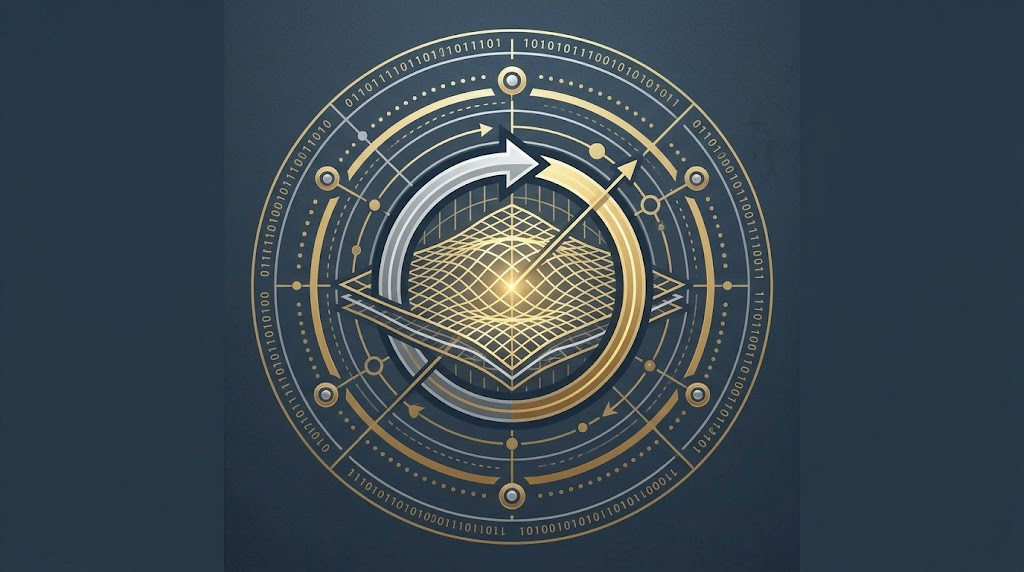
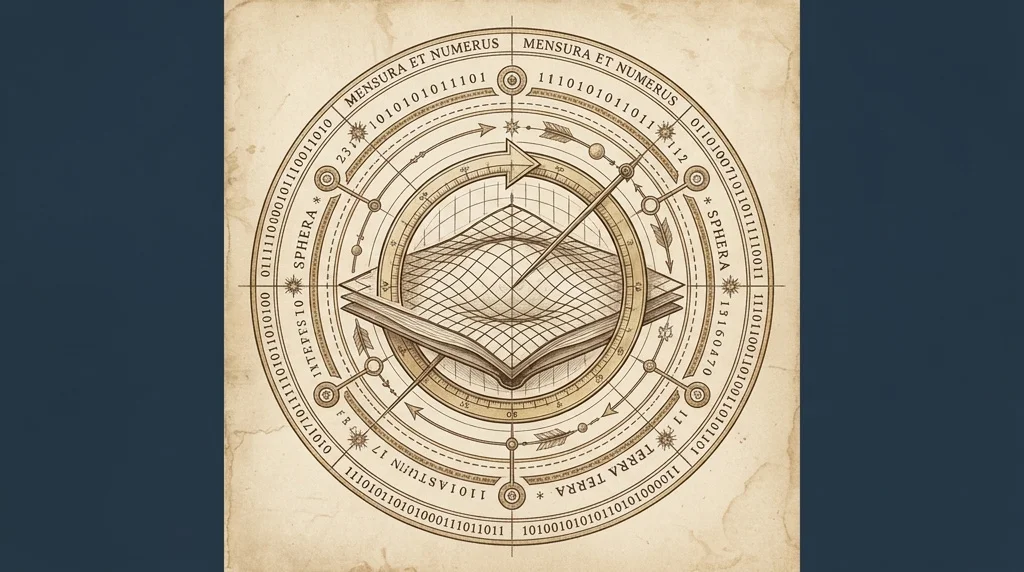
Renaissance theme inspired by The Creation of Adam
Restyle the site with fresco colors, gilded borders, Cinzel and EB Garamond.
Add a Creation of Adam banner to the home page and a faded Sistine Chapel
backdrop. Include updated team and part images.

diff --git a/css/style.css b/css/style.css
@@ -1,156 +1,198 @@
-/* ADAM site styles: dark slate theme.
-   A deep blue-grey (not black) with warm off-white text and a gold accent.
+/* ADAM site styles: Italian Renaissance theme.
+   The machine is named after Michelangelo's "Creation of Adam" on the Sistine Chapel ceiling,
+   so the site borrows from it: fresco plaster, gilded frame mouldings, printer's fleurons,
+   and the painting's own pigments (sky blue, God's red mantle, the green sash, ochre, gold).
    The accent colors keep their variable names, so data.js still works.
-   Fraunces gives headings a soft, classical touch; Source Sans 3 keeps body text clean. */
+   Fonts load here so every page gets them, whatever its <link> tags say.
+   Cinzel is modelled on Roman capitals, which Renaissance letterers revived;
+   EB Garamond is a Renaissance book face. */
+@import url('https://fonts.googleapis.com/css2?family=Cinzel:wght@500;600;700;800&family=EB+Garamond:ital,wght@0,400;0,500;0,600;1,400&display=swap');
+
 :root{
-  --bg:#1b1f27; --bg-rgb:27,31,39; --surface:#232833; --surface-rgb:35,40,51;
-  --ink:#ece8df; --mute:#a0a4ae; --line:#343a48;
-  --gold-rgb:224,182,79;
-  --z:#c08ad0; --y:#8fc276; --tool:#e0b64f; --fix:#6fa3e0; --x:#e08a5a; --base:#d9626b; --work:#ece8df;
-  --font-head:'Fraunces',Georgia,serif;
-  --font-body:'Source Sans 3',system-ui,sans-serif;
-  color-scheme:dark;
+  --bg:#f2ecdf; --bg-rgb:242,236,223; --surface:#fbf8f1; --surface-rgb:251,248,241;
+  --ink:#2b2118; --mute:#6b5e4e; --line:#d8cab0;
+  --gold:#a8822f; --gold-deep:#7d5e1c; --gold-rgb:168,130,47;
+  /* Fresco pigments: mantle purple, sash green, ochre, sky, flesh/terracotta, mantle red */
+  --z:#6a4570; --y:#3f7563; --tool:#94701f; --fix:#3a5f8c; --x:#b0532c; --base:#8a3236; --work:#2b2118;
+  --font-head:'Cinzel','Trajan Pro',Georgia,serif;
+  --font-body:'EB Garamond',Garamond,Georgia,serif;
+  /* Gilded frame moulding: thin dark line, broad gold, thin dark line */
+  --moulding:linear-gradient(180deg,var(--gold-deep) 0 1px,transparent 1px 3px,#c9a24a 3px 5px,var(--gold) 5px 7px,transparent 7px 9px,var(--gold-deep) 9px 10px);
+  color-scheme:light;
 }
 *{box-sizing:border-box}
 html{scroll-behavior:smooth}
-::selection{background:rgba(var(--gold-rgb),.35)}
+::selection{background:rgba(var(--gold-rgb),.3)}
 
-/* Background: slate with a soft warm glow in the top corner */
-body{margin:0;color:var(--ink);font:400 19px/1.6 var(--font-body);display:flex;flex-direction:column;min-height:100vh;
+/* Background: the Sistine Chapel, washed back to plaster so text stays readable,
+   with a warm "divine light" glow in the top corner */
+body{margin:0;color:var(--ink);font:400 20px/1.6 var(--font-body);display:flex;flex-direction:column;min-height:100vh;
   background-color:var(--bg);
   background-image:
-    radial-gradient(ellipse 70% 50% at 100% 0,rgba(var(--gold-rgb),.07),transparent 70%),
-    linear-gradient(180deg,#20252e 0,var(--bg) 60%);
+    radial-gradient(ellipse 60% 45% at 100% 0,rgba(var(--gold-rgb),.16),transparent 70%),
+    linear-gradient(rgba(var(--bg-rgb),.9),rgba(var(--bg-rgb),.9)),
+    url("../images/sistine_chapel.jpg");
+  background-repeat:no-repeat;background-size:100% 100%,100% 100%,cover;background-position:center,center,center 30%;
   background-attachment:fixed}
 main{flex:1}
-h1,h2,h3{font-family:var(--font-head);font-weight:600;line-height:1.1;margin:0}
+h1,h2,h3{font-family:var(--font-head);font-weight:600;line-height:1.15;margin:0;letter-spacing:.04em}
 a{color:inherit}
-:focus-visible{outline:2px solid var(--tool);outline-offset:3px}
+:focus-visible{outline:2px solid var(--gold);outline-offset:3px}
+
+/* Gilded moulding used on header, footer, sponsors and the home card */
+header::after,.sponsors::before,footer::before,.hello::before{content:"";display:block;height:10px;background:var(--moulding)}
 
 /* Header */
-header{position:sticky;top:0;z-index:10;padding-top:env(safe-area-inset-top,0px);background:rgba(var(--bg-rgb),.9);backdrop-filter:blur(8px);border-bottom:1px solid var(--line)}
+header{position:sticky;top:0;z-index:10;padding-top:env(safe-area-inset-top,0px);background:rgba(var(--bg-rgb),.94);backdrop-filter:blur(8px)}
 nav{max-width:1200px;margin:auto;padding:14px 28px;display:flex;align-items:center;justify-content:space-between;gap:16px}
-.logo{font:700 34px var(--font-head);letter-spacing:.14em;text-decoration:none;color:var(--tool)}
+.logo{font:700 32px var(--font-head);letter-spacing:.32em;text-decoration:none;color:var(--gold-deep);
+  text-shadow:0 1px 0 #fff8e4}
+.logo::before,.logo::after{content:"\2726";font-size:.45em;vertical-align:middle;color:var(--gold);letter-spacing:0;margin:0 .7em}
+.logo::before{margin-left:0}
+.logo::after{margin-left:.38em}
 nav ul{display:flex;gap:4px;list-style:none;margin:0;padding:0;flex-wrap:wrap}
-nav a.l{display:block;padding:6px 14px;text-decoration:none;font:500 17px var(--font-body);letter-spacing:.03em;border-bottom:2px solid transparent;transition:color .2s,border-color .2s}
+nav a.l{display:block;padding:6px 14px;text-decoration:none;font:600 15px var(--font-head);letter-spacing:.12em;text-transform:uppercase;border-bottom:2px solid transparent;transition:color .2s,border-color .2s}
 nav a.l:hover,nav a.l.on{color:var(--c);border-color:var(--c)}
 
 /* Layout */
 .wrap{position:relative;max-width:1200px;margin:auto;padding:80px 28px}
-h1.page{font-size:clamp(40px,6vw,72px);margin-bottom:20px}
-h1.page::after{content:"";display:block;width:64px;height:3px;margin-top:18px;background:var(--tool);border-radius:2px}
-.lede{color:var(--mute);font-size:21px;max-width:56ch;margin:0 0 48px}
+h1.page{font-size:clamp(40px,6vw,72px);margin-bottom:20px;color:var(--ink)}
+/* Printer's fleuron followed by a gold rule */
+h1.page::after{content:"\2766";display:block;margin-top:14px;padding-right:180px;width:max-content;font:400 30px/1 var(--font-body);color:var(--gold);
+  background:linear-gradient(var(--gold),var(--gold)) no-repeat right 4px center/164px 1px}
+.lede{color:var(--mute);font-size:23px;font-style:italic;max-width:56ch;margin:0 0 48px}
 
+/* Home banner: The Creation of Adam, framed on the two hands */
+.fresco{position:relative;padding:0 20px;height:min(64vh,620px);min-height:340px;display:flex;flex-direction:column;justify-content:flex-end;align-items:center;text-align:center;
+  background:url("../images/Creation_of_adam.jpg") 39% 45%/cover no-repeat;box-shadow:inset 0 -1px 0 var(--line)}
+.fresco::before{content:"";position:absolute;inset:0;background:linear-gradient(180deg,transparent 45%,rgba(var(--bg-rgb),.75) 78%,var(--bg) 100%)}
+.fresco>*{position:relative;max-width:100%}
+.fresco-name{margin:0;font:800 clamp(56px,9vw,120px)/1 var(--font-head);letter-spacing:.3em;margin-right:-.3em;
+  background:linear-gradient(180deg,#c9a24a 0,#94701f 55%,#6f5216 100%);-webkit-background-clip:text;background-clip:text;-webkit-text-fill-color:transparent;
+  filter:drop-shadow(0 1px 0 #fff8e4)}
+.fresco-sub{margin:10px 0 0;font:italic 500 clamp(20px,2.4vw,28px) var(--font-body);color:var(--ink)}
+.fresco-credit{margin:14px 0 18px;font:400 13px var(--font-head);letter-spacing:.14em;text-transform:uppercase;color:var(--mute)}
+.fresco-credit i{text-transform:none;font:italic 400 16px var(--font-body);letter-spacing:0}
+.fresco+.home{min-height:0;padding-top:56px}
 /* Home */
 .home{min-height:calc(100vh - 140px);display:grid;grid-template-columns:1fr 1fr;gap:48px;align-items:center;padding-top:48px}
 #topo{position:absolute;inset:0;width:100%;height:100%;z-index:-1;pointer-events:none}
-#topo path{fill:none;stroke:var(--tool);stroke-width:1.2;stroke-opacity:.2;stroke-dasharray:1;stroke-dashoffset:1;animation:draw 3.2s ease-out forwards}
+#topo path{fill:none;stroke:var(--gold);stroke-width:1.1;stroke-opacity:.28;stroke-dasharray:1;stroke-dashoffset:1;animation:draw 3.2s ease-out forwards}
 @keyframes draw{to{stroke-dashoffset:0}}
-.hello,.shot{border-radius:14px;box-shadow:0 20px 50px rgba(0,0,0,.35)}
-.hello{background:rgba(var(--surface-rgb),.92);border:1px solid var(--line);padding:44px}
-.hello h1{font-size:clamp(80px,10vw,136px);color:var(--tool);font-weight:700}
-.hello p{max-width:34ch;color:#d8d4ca;margin:20px 0 28px;font-size:22px}
-.btn{display:inline-block;background:var(--tool);color:#1b1f27;font:600 17px var(--font-body);letter-spacing:.02em;padding:12px 28px;text-decoration:none;border-radius:8px;transition:background .2s,transform .2s}
-.btn:hover{background:#f2cd70;transform:translateY(-1px)}
-.shot{background:#fff;overflow:hidden}
+.hello,.shot{box-shadow:0 2px 0 rgba(var(--gold-rgb),.25),0 24px 50px rgba(60,40,10,.18)}
+/* Hero card styled like a carved stone tablet */
+.hello{position:relative;background:rgba(var(--surface-rgb),.94);border:1px solid var(--line);outline:1px solid rgba(var(--gold-rgb),.45);outline-offset:-10px;padding:0 44px 44px}
+.hello::before{margin:0 -44px 36px}
+.hello h1{font-size:clamp(80px,10vw,136px);color:var(--gold-deep);font-weight:700;
+  background:linear-gradient(180deg,#c9a24a 0,#94701f 55%,#6f5216 100%);-webkit-background-clip:text;background-clip:text;-webkit-text-fill-color:transparent}
+.hello p{max-width:34ch;color:var(--ink);margin:20px 0 28px;font-size:24px}
+.btn{display:inline-block;background:linear-gradient(180deg,#c9a24a,#9b7624);color:#fffaf0;font:700 15px var(--font-head);letter-spacing:.14em;text-transform:uppercase;padding:13px 28px;text-decoration:none;border:1px solid var(--gold-deep);border-radius:2px;box-shadow:inset 0 1px 0 rgba(255,255,255,.35),0 2px 6px rgba(60,40,10,.2);text-shadow:0 1px 0 rgba(0,0,0,.25);transition:filter .2s,transform .2s}
+.btn:hover{filter:brightness(1.08);transform:translateY(-1px)}
+.shot{background:#fff;overflow:hidden;border:1px solid var(--line);outline:6px solid var(--surface);outline-offset:0}
 .shot img{display:block;width:100%;height:auto}
 
 /* Project */
-.parts{display:grid;grid-template-columns:minmax(0,1fr) minmax(0,1.2fr);gap:40px;align-items:start}
-.plist{display:flex;flex-direction:column;border-top:1px solid var(--line)}
-.plist button{all:unset;cursor:pointer;display:flex;align-items:center;gap:14px;padding:14px 4px;border-bottom:1px solid var(--line);font:600 24px var(--font-head);color:var(--c);transition:padding .2s}
-.plist button:hover,.plist button[aria-selected=true]{padding-left:16px}
-.plist button:focus-visible{outline:2px solid var(--tool)}
-.plist button::before{content:"";width:12px;height:12px;border-radius:50%;background:var(--c);flex:none}
+.parts{display:grid;grid-template-columns:minmax(0,1fr) minmax(0,1.2fr);gap:40px;align-items:start;margin-top:40px}
+.plist{display:flex;flex-direction:column;border-top:3px double var(--line)}
+.plist button{all:unset;cursor:pointer;display:flex;align-items:center;gap:14px;padding:14px 4px;border-bottom:1px solid var(--line);font:600 22px var(--font-head);letter-spacing:.06em;color:var(--c);transition:padding .2s,background .2s}
+.plist button:hover,.plist button[aria-selected=true]{padding-left:16px;background:rgba(var(--gold-rgb),.07)}
+.plist button:focus-visible{outline:2px solid var(--gold)}
+.plist button::before{content:"";width:12px;height:12px;transform:rotate(45deg);background:var(--c);flex:none}
 .plist button.has-img::before{display:none}
-.plist img{width:64px;height:64px;object-fit:cover;border-radius:8px;flex:none;border:2px solid var(--c)}
-.pdetail{border-left:3px solid var(--c);padding:12px 24px 12px 28px;min-height:260px;background:rgba(var(--surface-rgb),.7);border-radius:0 10px 10px 0}
-.pdetail h3{font-size:42px;color:var(--c);margin-bottom:12px}
+.plist img{width:64px;height:64px;object-fit:cover;border-radius:50%;flex:none;border:2px solid var(--c);outline:1px solid rgba(var(--gold-rgb),.6);outline-offset:2px}
+.pdetail{border-left:3px solid var(--c);padding:16px 26px 16px 30px;min-height:260px;background:rgba(var(--surface-rgb),.85);border-radius:0 4px 4px 0;box-shadow:0 10px 30px rgba(60,40,10,.08)}
+.pdetail h3{font-size:40px;color:var(--c);margin-bottom:12px}
 .pdetail p{margin:0 0 16px;max-width:52ch}
-.pdetail small{color:var(--mute);font-size:16px}
-.pdetail img{display:block;width:100%;max-width:520px;height:auto;border-radius:8px;border:1px solid var(--line);margin:0 0 16px}
-.pdetail h4{margin:24px 0 8px;font:600 14px var(--font-body);letter-spacing:.12em;text-transform:uppercase;color:var(--tool)}
+.pdetail small{color:var(--mute);font-size:17px;font-style:italic}
+.pdetail img{display:block;width:100%;max-width:520px;height:auto;border-radius:2px;border:1px solid var(--line);margin:0 0 16px}
+.pdetail h4{margin:24px 0 8px;font:700 14px var(--font-head);letter-spacing:.16em;text-transform:uppercase;color:var(--tool)}
 .pdetail ul{margin:0 0 16px;padding-left:20px;max-width:52ch}
 .pdetail li{margin-bottom:6px}
-.pdetail li::marker{color:var(--tool)}
+.pdetail li::marker{color:var(--gold)}
 .pdetail figure{margin:0 0 20px}
 .pdetail figure img{margin:0 0 8px}
-.pdetail figcaption{color:var(--mute);font-size:15px}
+.pdetail figcaption{color:var(--mute);font-size:16px;font-style:italic}
 .pgallery{display:grid;grid-template-columns:repeat(auto-fit,minmax(220px,1fr));gap:12px;margin:0 0 16px}
 .pgallery img{margin:0;aspect-ratio:4/3;object-fit:cover}
 
 /* Mission (Project page) */
-h2.sub{font-size:clamp(32px,4.5vw,48px);margin:0 0 24px}
+h2.sub{font-size:clamp(30px,4.2vw,46px);margin:0 0 24px}
 .mission{margin-bottom:96px}
-.mission-statement{font:500 clamp(26px,3.4vw,40px)/1.25 var(--font-head);max-width:36ch;margin:0 0 40px}
+.mission-statement{font:italic 500 clamp(28px,3.6vw,42px)/1.3 var(--font-body);max-width:36ch;margin:0 0 40px;padding-left:28px;border-left:3px double var(--gold)}
 .mission-grid{display:grid;grid-template-columns:repeat(auto-fit,minmax(260px,1fr));gap:24px}
-.mcard{background:var(--surface);border:1px solid var(--line);border-top:3px solid var(--fix);padding:24px 24px 28px;border-radius:10px}
+/* Cards as small stone stelae: a coloured capital on top, inset gold rule */
+.mcard{background:var(--surface);border:1px solid var(--line);border-top:4px solid var(--fix);outline:1px solid rgba(var(--gold-rgb),.35);outline-offset:-8px;padding:28px 28px 30px;border-radius:2px;box-shadow:0 10px 26px rgba(60,40,10,.08)}
 .mcard:nth-child(even){border-top-color:var(--x)}
-.mcard h3{font-size:24px;margin-bottom:12px}
-.mcard p{margin:0;color:#d8d4ca}
-.mcard ul{margin:0;padding-left:20px;color:#d8d4ca}
+.mcard h3{font-size:22px;margin-bottom:12px}
+.mcard p{margin:0;color:var(--ink)}
+.mcard ul{margin:0;padding-left:20px;color:var(--ink)}
 .mcard li{margin-bottom:6px}
-.mcard li::marker{color:var(--tool)}
+.mcard li::marker{color:var(--gold)}
 
 /* Presentations */
 .btn-row{margin:0 0 56px}
-.back{display:inline-block;margin-bottom:20px;font:500 16px var(--font-body);text-decoration:none;color:var(--mute)}
-.back:hover{color:var(--tool)}
+.back{display:inline-block;margin-bottom:20px;font:600 14px var(--font-head);letter-spacing:.1em;text-transform:uppercase;text-decoration:none;color:var(--mute)}
+.back:hover{color:var(--gold-deep)}
 .pres{display:grid;grid-template-columns:minmax(0,320px) minmax(0,1fr);gap:32px;align-items:start}
-.pres-list{list-style:none;margin:0;padding:0;border-top:1px solid var(--line)}
+.pres-list{list-style:none;margin:0;padding:0;border-top:3px double var(--line)}
 .pres-list button{all:unset;box-sizing:border-box;display:block;width:100%;cursor:pointer;padding:14px 8px;border-bottom:1px solid var(--line);transition:padding .2s}
 .pres-list button:hover,.pres-list button[aria-pressed=true]{padding-left:18px}
-.pres-list button[aria-pressed=true]{background:var(--surface);box-shadow:inset 3px 0 0 var(--tool)}
-.pres-list button:focus-visible{outline:2px solid var(--tool)}
-.pres-list strong{display:block;font:600 21px var(--font-head)}
-.pres-list span{color:var(--x);font:600 13px var(--font-body);letter-spacing:.12em;text-transform:uppercase}
-.pres-list small{display:block;color:var(--mute);font-size:16px;margin-top:4px}
-.pres-view{min-height:300px;border:1px solid var(--line);border-radius:10px;background:var(--surface);padding:16px}
-.pres-empty{color:var(--mute);margin:0;padding:40px 16px;text-align:center}
+.pres-list button[aria-pressed=true]{background:var(--surface);box-shadow:inset 3px 0 0 var(--gold)}
+.pres-list button:focus-visible{outline:2px solid var(--gold)}
+.pres-list strong{display:block;font:600 19px var(--font-head)}
+.pres-list span{color:var(--x);font:700 12px var(--font-head);letter-spacing:.16em;text-transform:uppercase}
+.pres-list small{display:block;color:var(--mute);font-size:17px;font-style:italic;margin-top:4px}
+.pres-view{min-height:300px;border:1px solid var(--line);border-radius:2px;background:var(--surface);padding:16px}
+.pres-empty{color:var(--mute);font-style:italic;margin:0;padding:40px 16px;text-align:center}
 .pres-bar{display:flex;justify-content:space-between;align-items:center;gap:12px;flex-wrap:wrap;margin-bottom:12px}
-.pres-bar h3{font-size:26px}
-.pres-view iframe{display:block;width:100%;height:75vh;border:1px solid var(--line);border-radius:6px;background:#fff}
+.pres-bar h3{font-size:24px}
+.pres-view iframe{display:block;width:100%;height:75vh;border:1px solid var(--line);border-radius:2px;background:#fff}
 
 /* Animation / video */
-.anim{display:block;width:100%;max-width:760px;height:auto;margin:0 0 32px;border:1px solid var(--line);border-radius:10px;background:#000}
+.anim{display:block;width:100%;max-width:760px;height:auto;margin:0 0 32px;border:1px solid var(--line);outline:6px solid var(--surface);border-radius:2px;background:#000}
 
-/* Design log: entries alternate blue and orange */
+/* Design log: entries alternate blue and terracotta */
 .log{list-style:none;margin:0;padding:0 0 0 28px;border-left:2px solid var(--line)}
 .log li{--c:var(--fix);position:relative;padding:0 0 44px 32px}
 .log li:nth-child(even){--c:var(--x)}
-.log li::before{content:"";position:absolute;left:-39px;top:8px;width:16px;height:16px;border-radius:50%;background:var(--bg);border:3px solid var(--c)}
-.log time{color:var(--c);font:600 14px var(--font-body);letter-spacing:.12em;text-transform:uppercase}
-.log h3{font-size:28px;margin:4px 0 8px}
-.log p{margin:0;max-width:60ch;color:#d8d4ca}
+.log li::before{content:"";position:absolute;left:-38px;top:10px;width:14px;height:14px;transform:rotate(45deg);background:var(--bg);border:3px solid var(--c)}
+.log time{color:var(--c);font:700 13px var(--font-head);letter-spacing:.16em;text-transform:uppercase}
+.log h3{font-size:26px;margin:4px 0 8px}
+.log p{margin:0;max-width:60ch;color:var(--ink)}
 
-/* About */
+/* About: portraits as gold-rimmed coins */
 .team{display:grid;grid-template-columns:repeat(auto-fit,minmax(200px,1fr));gap:32px}
-.person .ph{aspect-ratio:1;border-radius:50%;border:2px solid var(--c);display:grid;place-items:center;font:700 64px var(--font-head);color:var(--c);margin-bottom:16px;max-width:180px;overflow:hidden;background:var(--surface)}
+.person{text-align:center}
+.person .ph{aspect-ratio:1;border-radius:50%;border:3px solid var(--c);outline:2px solid var(--gold);outline-offset:4px;display:grid;place-items:center;font:700 64px var(--font-head);color:var(--c);margin:8px auto 22px;max-width:180px;overflow:hidden;background:var(--surface);box-shadow:0 10px 24px rgba(60,40,10,.18)}
 .person .ph img{width:100%;height:100%;object-fit:cover}
-.person h3{font-size:26px}
-.person p{margin:4px 0 0;color:var(--mute)}
+.person h3{font-size:22px}
+.person p{margin:4px 0 0;color:var(--mute);font-style:italic}
 
 /* Contact */
-.mail{display:inline-block;font:600 clamp(26px,5vw,56px) var(--font-head);text-decoration:none;color:var(--tool);border-bottom:3px solid var(--tool);transition:color .2s,border-color .2s}
+.mail{display:inline-block;font:italic 500 clamp(28px,5vw,58px) var(--font-body);text-decoration:none;color:var(--gold-deep);border-bottom:2px solid var(--gold);transition:color .2s,border-color .2s}
 .mail:hover{color:var(--ink);border-color:var(--ink)}
 
 /* Sponsor banner: scrolls sideways, pauses on hover/focus */
-.sponsors{border-top:1px solid var(--line);padding:24px 0 28px;background:var(--surface)}
-.sponsors h2{font:600 14px var(--font-body);letter-spacing:.2em;text-transform:uppercase;color:var(--mute);text-align:center;margin-bottom:16px}
+.sponsors{padding:0 0 28px;background:var(--surface)}
+.sponsors::before{margin-bottom:24px}
+.sponsors h2{font:700 14px var(--font-head);letter-spacing:.24em;text-transform:uppercase;color:var(--mute);text-align:center;margin-bottom:16px}
 .marquee{overflow:hidden;-webkit-mask-image:linear-gradient(90deg,transparent,#000 8%,#000 92%,transparent);mask-image:linear-gradient(90deg,transparent,#000 8%,#000 92%,transparent)}
 .track{display:flex;width:max-content;gap:20px;list-style:none;margin:0;padding:0 10px;animation:scroll var(--dur,30s) linear infinite}
 .marquee:hover .track,.marquee:focus-within .track{animation-play-state:paused}
 @keyframes scroll{to{transform:translateX(calc(-50% - 10px))}}
-.track a{flex:none;display:flex;align-items:center;justify-content:center;width:200px;height:88px;padding:14px 20px;border:1px solid var(--line);background:rgba(255,255,255,.03);border-radius:8px;text-decoration:none;font:600 18px/1.1 var(--font-head);text-align:center;color:var(--ink);transition:border-color .2s,color .2s}
-.track a:hover{border-color:var(--tool);color:var(--tool)}
+.track a{flex:none;display:flex;align-items:center;justify-content:center;width:200px;height:88px;padding:14px 20px;border:1px solid var(--line);background:#fff;border-radius:2px;text-decoration:none;font:600 16px/1.1 var(--font-head);text-align:center;color:var(--ink);transition:border-color .2s,color .2s}
+.track a:hover{border-color:var(--gold);color:var(--gold-deep)}
 .track img{width:100%;height:100%;object-fit:contain;display:block}
 
-footer{border-top:1px solid var(--line);padding:24px;text-align:center;color:var(--mute);font-size:15px;background:var(--bg)}
+footer{padding:0 24px 24px;text-align:center;color:var(--mute);font:400 13px var(--font-head);letter-spacing:.18em;text-transform:uppercase;background:var(--bg)}
+footer::before{margin:0 -24px 22px}
 
 @media(max-width:820px){
   .home,.parts,.pres{grid-template-columns:1fr}
-  .hello{padding:28px}
+  .hello{padding:0 28px 28px}
+  .hello::before{margin:0 -28px 28px}
   nav{flex-direction:column}
+  .logo{font-size:28px}
   .wrap{padding:56px 22px}
   .pres-view iframe{height:65vh}
 }
@@ -163,9 +205,53 @@ footer{border-top:1px solid var(--line);padding:24px;text-align:center;color:var
 }
 /* Embedded PDFs */
 .pdf{margin:0 0 16px}
-.pdf-btn{cursor:pointer;background:var(--tool);color:#1b1f27;font:600 16px var(--font-body);padding:10px 20px;border:0;border-radius:8px;transition:background .2s}
-.pdf-btn:hover{background:#f2cd70}
+.pdf-btn{cursor:pointer;background:linear-gradient(180deg,#c9a24a,#9b7624);color:#fffaf0;font:700 13px var(--font-head);letter-spacing:.14em;text-transform:uppercase;padding:11px 20px;border:1px solid var(--gold-deep);border-radius:2px;text-shadow:0 1px 0 rgba(0,0,0,.25);transition:filter .2s}
+.pdf-btn:hover{filter:brightness(1.08)}
 .pdf-btn:focus-visible{outline:2px solid var(--ink);outline-offset:3px}
-.pdf-open{margin-left:12px;color:var(--mute);font-size:16px}
-.pdf-open:hover{color:var(--tool)}
-.pdf-frame{display:block;width:100%;height:70vh;border:1px solid var(--line);border-radius:6px;background:#fff;margin-bottom:10px}
+.pdf-open{margin-left:12px;color:var(--mute);font-size:17px;font-style:italic}
+.pdf-open:hover{color:var(--gold-deep)}
+.pdf-frame{display:block;width:100%;height:70vh;border:1px solid var(--line);border-radius:2px;background:#fff;margin-bottom:10px}
+
+/* Collapsible sections: header bars */
+.acc{border:1px solid var(--line);border-left:4px solid var(--c,var(--tool));border-radius:2px;background:rgba(var(--surface-rgb),.85);margin:0 0 12px;overflow:hidden}
+.acc>summary{cursor:pointer;list-style:none;user-select:none;display:flex;align-items:center;justify-content:space-between;gap:12px;padding:14px 18px;background:rgba(var(--gold-rgb),.07);font:700 18px var(--font-head);letter-spacing:.05em;color:var(--ink);transition:background .2s,color .2s}
+.acc>summary::-webkit-details-marker{display:none}
+.acc>summary::after{content:"";flex:none;width:10px;height:10px;margin:0 4px 4px 0;border-right:3px solid var(--c,var(--tool));border-bottom:3px solid var(--c,var(--tool));transform:rotate(45deg);transition:transform .2s}
+.acc[open]>summary::after{transform:rotate(-135deg);margin-bottom:-4px}
+.acc>summary:hover{background:rgba(var(--gold-rgb),.14);color:var(--c,var(--tool))}
+.acc[open]>summary{color:var(--c,var(--tool));border-bottom:1px solid var(--line)}
+.acc>summary:focus-visible{outline:2px solid var(--gold);outline-offset:-2px}
+
+/* Inside the sections */
+.acc-body{padding:14px 18px 16px}
+.acc-body>:last-child{margin-bottom:0}
+.acc-body p{margin:0 0 12px}
+.acc-body ul{margin:0 0 12px;padding-left:20px}
+.acc-body li{margin-bottom:6px}
+.acc-body li::marker{color:var(--gold)}
+.acc-body figure{margin:0 0 16px}
+.acc-body img{display:block;width:100%;max-width:560px;height:auto;border-radius:2px;border:1px solid var(--line);margin:0 0 8px}
+.acc-body figcaption{color:var(--mute);font-size:16px;font-style:italic}
+
+/* Design log entries */
+.log li{padding-bottom:24px}
+.log-acc>summary{justify-content:flex-start;flex-wrap:wrap;gap:4px 16px}
+.log-acc>summary span{font:600 24px var(--font-head)}
+.log-acc>summary::after{margin-left:auto}
+
+/* Log entries: card style, different from the part dropdowns */
+.log-acc{border:1px solid var(--line);border-radius:2px;background:var(--surface);outline:1px solid rgba(var(--gold-rgb),.3);outline-offset:-6px;box-shadow:0 8px 24px rgba(60,40,10,.1)}
+.log-acc>summary{background:transparent;padding:18px 20px;color:var(--ink)}
+.log-acc>summary:hover,.log-acc[open]>summary{background:transparent;color:var(--ink);border-bottom:0}
+.log-acc>summary:hover span{color:var(--c)}
+.log-acc>summary time{display:inline-block;background:var(--c);color:#fffaf0;padding:3px 12px;border-radius:2px;font:700 12px var(--font-head);letter-spacing:.12em}
+.log-acc>summary::after{content:"+";width:34px;height:34px;margin:0 0 0 auto;border:2px solid var(--c);border-radius:50%;display:grid;place-items:center;font:500 24px/1 var(--font-body);color:var(--c);transform:none}
+.log-acc[open]>summary::after{content:"\2212";transform:none;margin-bottom:0}
+.log-acc>.acc-body{padding:0 20px 18px}
+.log li::before{top:28px}
+
+/* Sections inside a log entry: light, with a divider line */
+.log-acc .acc{border:0;border-top:1px solid var(--line);border-radius:0;background:transparent;margin:0}
+.log-acc .acc>summary{background:transparent;padding:12px 0;font-size:16px}
+.log-acc .acc[open]>summary{border-bottom:0}
+.log-acc .acc-body{padding:0 0 14px}

diff --git a/index.html b/index.html
@@ -10,10 +10,14 @@
 <body>
 <header id="site-header"></header>
 <main>
+<section class="fresco" aria-label="Banner: Michelangelo's The Creation of Adam, the hands of God and Adam reaching toward each other">
+  <p class="fresco-name">ADAM</p>
+  <p class="fresco-sub">Double-Sided Incremental Forming</p>
+  <p class="fresco-credit">Michelangelo, <i>The Creation of Adam</i>, Sistine Chapel, c. 1512</p>
+</section>
 <section class="wrap home">
   <svg id="topo" aria-hidden="true" preserveAspectRatio="xMidYMid slice" viewBox="0 0 1200 800"></svg>
   <div class="hello">
-    <h1>Hi!</h1>
     <p>Navigate the menu above to discover our Double-Sided Incremental Forming machine.</p>
     <a class="btn" href="project.html">Check out our progress</a>
   </div>
